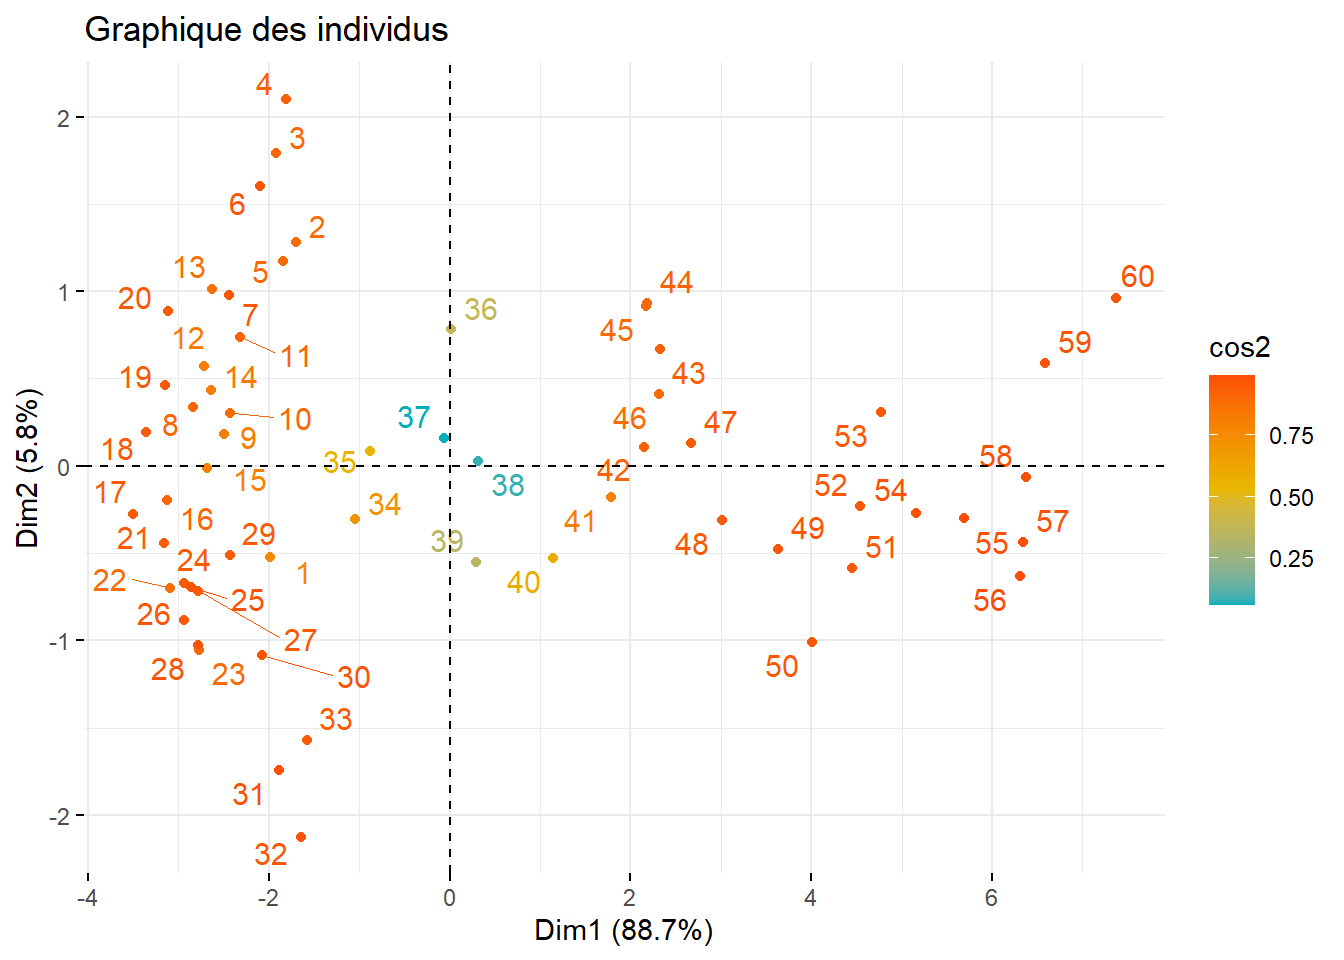
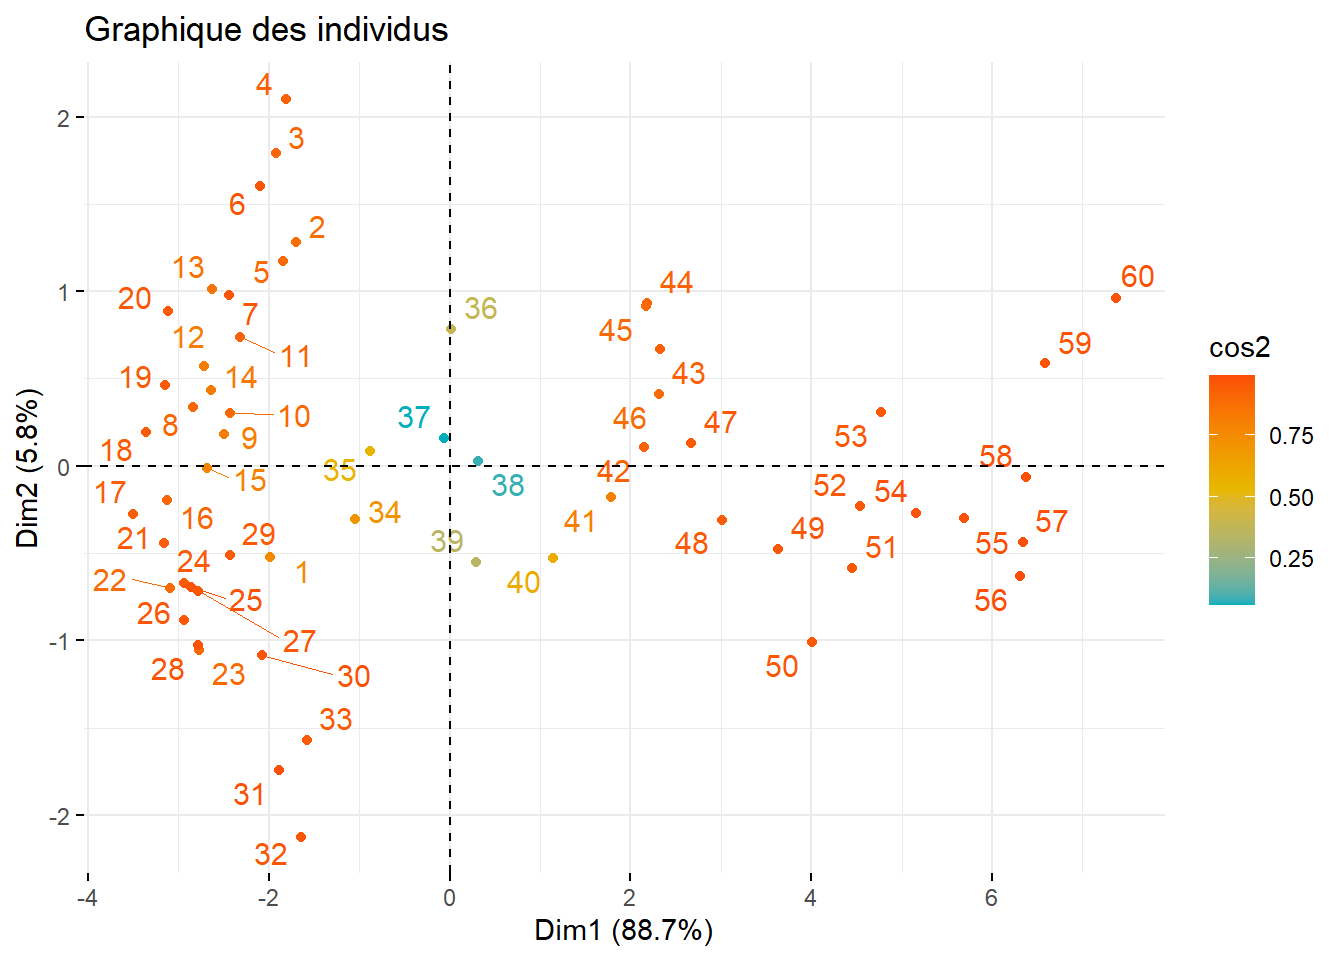
v6

diff --git a/les12B.html b/les12B.html
@@ -9,7 +9,7 @@
 <meta name="author" content="Mr.&nbsp;Dtiebo">
 <meta name="dcterms.date" content="2024-10-16">
 
-<title>MRDTIEBO - Résultats de Prévision avec l’ACP et l’intégration de ARIMA cas des 12 B</title>
+<title> MRDTIEBO - Résultats de Prévision avec l’ACP et l’intégration de ARIMA cas des 12 B</title>
 <style>
 code{white-space: pre-wrap;}
 span.smallcaps{font-variant: small-caps;}
@@ -66,6 +66,7 @@ pre > code.sourceCode > span > a:first-child::before { text-decoration: underlin
 <script src="site_libs/quarto-search/fuse.min.js"></script>
 <script src="site_libs/quarto-search/quarto-search.js"></script>
 <meta name="quarto:offset" content="./">
+<link href="./icon.png" rel="icon" type="image/png">
 <script src="site_libs/quarto-html/quarto.js"></script>
 <script src="site_libs/quarto-html/popper.min.js"></script>
 <script src="site_libs/quarto-html/tippy.umd.min.js"></script>
@@ -109,7 +110,7 @@ pre > code.sourceCode > span > a:first-child::before { text-decoration: underlin
       <div class="navbar-container container-fluid">
       <div class="navbar-brand-container">
     <a class="navbar-brand" href="./index.html">
-    <span class="navbar-title">MRDTIEBO</span>
+    <span class="navbar-title"><img src="icon.png" alt="Site Icon" height="50" style="vertical-align: middle; margin: 0px;"> MRDTIEBO</span>
     </a>
   </div>
             <div id="quarto-search" class="" title="Search"></div>

diff --git a/les8G.html b/les8G.html
@@ -9,7 +9,7 @@
 <meta name="author" content="Mr.&nbsp;Dtiebo">
 <meta name="dcterms.date" content="2024-11-14">
 
-<title>MRDTIEBO - Résultats de Prévision avec l’ACP et l’intégration de ARIMA cas des 8G</title>
+<title> MRDTIEBO - Résultats de Prévision avec l’ACP et l’intégration de ARIMA cas des 8G</title>
 <style>
 code{white-space: pre-wrap;}
 span.smallcaps{font-variant: small-caps;}
@@ -66,6 +66,7 @@ pre > code.sourceCode > span > a:first-child::before { text-decoration: underlin
 <script src="site_libs/quarto-search/fuse.min.js"></script>
 <script src="site_libs/quarto-search/quarto-search.js"></script>
 <meta name="quarto:offset" content="./">
+<link href="./icon.png" rel="icon" type="image/png">
 <script src="site_libs/quarto-html/quarto.js"></script>
 <script src="site_libs/quarto-html/popper.min.js"></script>
 <script src="site_libs/quarto-html/tippy.umd.min.js"></script>
@@ -109,7 +110,7 @@ pre > code.sourceCode > span > a:first-child::before { text-decoration: underlin
       <div class="navbar-container container-fluid">
       <div class="navbar-brand-container">
     <a class="navbar-brand" href="./index.html">
-    <span class="navbar-title">MRDTIEBO</span>
+    <span class="navbar-title"><img src="icon.png" alt="Site Icon" height="50" style="vertical-align: middle; margin: 0px;"> MRDTIEBO</span>
     </a>
   </div>
             <div id="quarto-search" class="" title="Search"></div>

diff --git a/index.html b/index.html
@@ -9,7 +9,7 @@
 <meta name="author" content="Mr.&nbsp;Dtiebo">
 <meta name="dcterms.date" content="2024-10-14">
 
-<title>MRDTIEBO - Résultats de Prévision avec l’ACP et l’intégration de ARIMA</title>
+<title> MRDTIEBO - Résultats de Prévision avec l’ACP et l’intégration de ARIMA</title>
 <style>
 code{white-space: pre-wrap;}
 span.smallcaps{font-variant: small-caps;}
@@ -66,6 +66,7 @@ pre > code.sourceCode > span > a:first-child::before { text-decoration: underlin
 <script src="site_libs/quarto-search/fuse.min.js"></script>
 <script src="site_libs/quarto-search/quarto-search.js"></script>
 <meta name="quarto:offset" content="./">
+<link href="./icon.png" rel="icon" type="image/png">
 <script src="site_libs/quarto-html/quarto.js"></script>
 <script src="site_libs/quarto-html/popper.min.js"></script>
 <script src="site_libs/quarto-html/tippy.umd.min.js"></script>
@@ -109,7 +110,7 @@ pre > code.sourceCode > span > a:first-child::before { text-decoration: underlin
       <div class="navbar-container container-fluid">
       <div class="navbar-brand-container">
     <a class="navbar-brand" href="./index.html">
-    <span class="navbar-title">MRDTIEBO</span>
+    <span class="navbar-title"><img src="icon.png" alt="Site Icon" height="50" style="vertical-align: middle; margin: 0px;"> MRDTIEBO</span>
     </a>
   </div>
             <div id="quarto-search" class="" title="Search"></div>

diff --git a/arimavsacp.html b/arimavsacp.html
@@ -9,7 +9,7 @@
 <meta name="author" content="Mr.&nbsp;Dtiebo">
 <meta name="dcterms.date" content="2024-12-19">
 
-<title>MRDTIEBO - ACP vs Arima</title>
+<title> MRDTIEBO - ACP vs Arima</title>
 <style>
 code{white-space: pre-wrap;}
 span.smallcaps{font-variant: small-caps;}
@@ -66,6 +66,7 @@ pre > code.sourceCode > span > a:first-child::before { text-decoration: underlin
 <script src="site_libs/quarto-search/fuse.min.js"></script>
 <script src="site_libs/quarto-search/quarto-search.js"></script>
 <meta name="quarto:offset" content="./">
+<link href="./icon.png" rel="icon" type="image/png">
 <script src="site_libs/quarto-html/quarto.js"></script>
 <script src="site_libs/quarto-html/popper.min.js"></script>
 <script src="site_libs/quarto-html/tippy.umd.min.js"></script>
@@ -107,7 +108,7 @@ pre > code.sourceCode > span > a:first-child::before { text-decoration: underlin
       <div class="navbar-container container-fluid">
       <div class="navbar-brand-container">
     <a class="navbar-brand" href="./index.html">
-    <span class="navbar-title">MRDTIEBO</span>
+    <span class="navbar-title"><img src="icon.png" alt="Site Icon" height="50" style="vertical-align: middle; margin: 0px;"> MRDTIEBO</span>
     </a>
   </div>
             <div id="quarto-search" class="" title="Search"></div>

diff --git a/exp.html b/exp.html
@@ -7,7 +7,7 @@
 <meta name="viewport" content="width=device-width, initial-scale=1.0, user-scalable=yes">
 
 
-<title>MRDTIEBO - Fonction</title>
+<title> MRDTIEBO - Fonction</title>
 <style>
 code{white-space: pre-wrap;}
 span.smallcaps{font-variant: small-caps;}
@@ -64,6 +64,7 @@ pre > code.sourceCode > span > a:first-child::before { text-decoration: underlin
 <script src="site_libs/quarto-search/fuse.min.js"></script>
 <script src="site_libs/quarto-search/quarto-search.js"></script>
 <meta name="quarto:offset" content="./">
+<link href="./icon.png" rel="icon" type="image/png">
 <script src="site_libs/quarto-html/quarto.js"></script>
 <script src="site_libs/quarto-html/popper.min.js"></script>
 <script src="site_libs/quarto-html/tippy.umd.min.js"></script>
@@ -107,7 +108,7 @@ pre > code.sourceCode > span > a:first-child::before { text-decoration: underlin
       <div class="navbar-container container-fluid">
       <div class="navbar-brand-container">
     <a class="navbar-brand" href="./index.html">
-    <span class="navbar-title">MRDTIEBO</span>
+    <span class="navbar-title"><img src="icon.png" alt="Site Icon" height="50" style="vertical-align: middle; margin: 0px;"> MRDTIEBO</span>
     </a>
   </div>
             <div id="quarto-search" class="" title="Search"></div>

diff --git a/about.html b/about.html
@@ -7,7 +7,7 @@
 <meta name="viewport" content="width=device-width, initial-scale=1.0, user-scalable=yes">
 
 
-<title>MRDTIEBO - About</title>
+<title> MRDTIEBO - About</title>
 <style>
 code{white-space: pre-wrap;}
 span.smallcaps{font-variant: small-caps;}
@@ -64,6 +64,7 @@ pre > code.sourceCode > span > a:first-child::before { text-decoration: underlin
 <script src="site_libs/quarto-search/fuse.min.js"></script>
 <script src="site_libs/quarto-search/quarto-search.js"></script>
 <meta name="quarto:offset" content="./">
+<link href="./icon.png" rel="icon" type="image/png">
 <script src="site_libs/quarto-html/quarto.js"></script>
 <script src="site_libs/quarto-html/popper.min.js"></script>
 <script src="site_libs/quarto-html/tippy.umd.min.js"></script>
@@ -105,7 +106,7 @@ pre > code.sourceCode > span > a:first-child::before { text-decoration: underlin
       <div class="navbar-container container-fluid">
       <div class="navbar-brand-container">
     <a class="navbar-brand" href="./index.html">
-    <span class="navbar-title">MRDTIEBO</span>
+    <span class="navbar-title"><img src="icon.png" alt="Site Icon" height="50" style="vertical-align: middle; margin: 0px;"> MRDTIEBO</span>
     </a>
   </div>
             <div id="quarto-search" class="" title="Search"></div>
